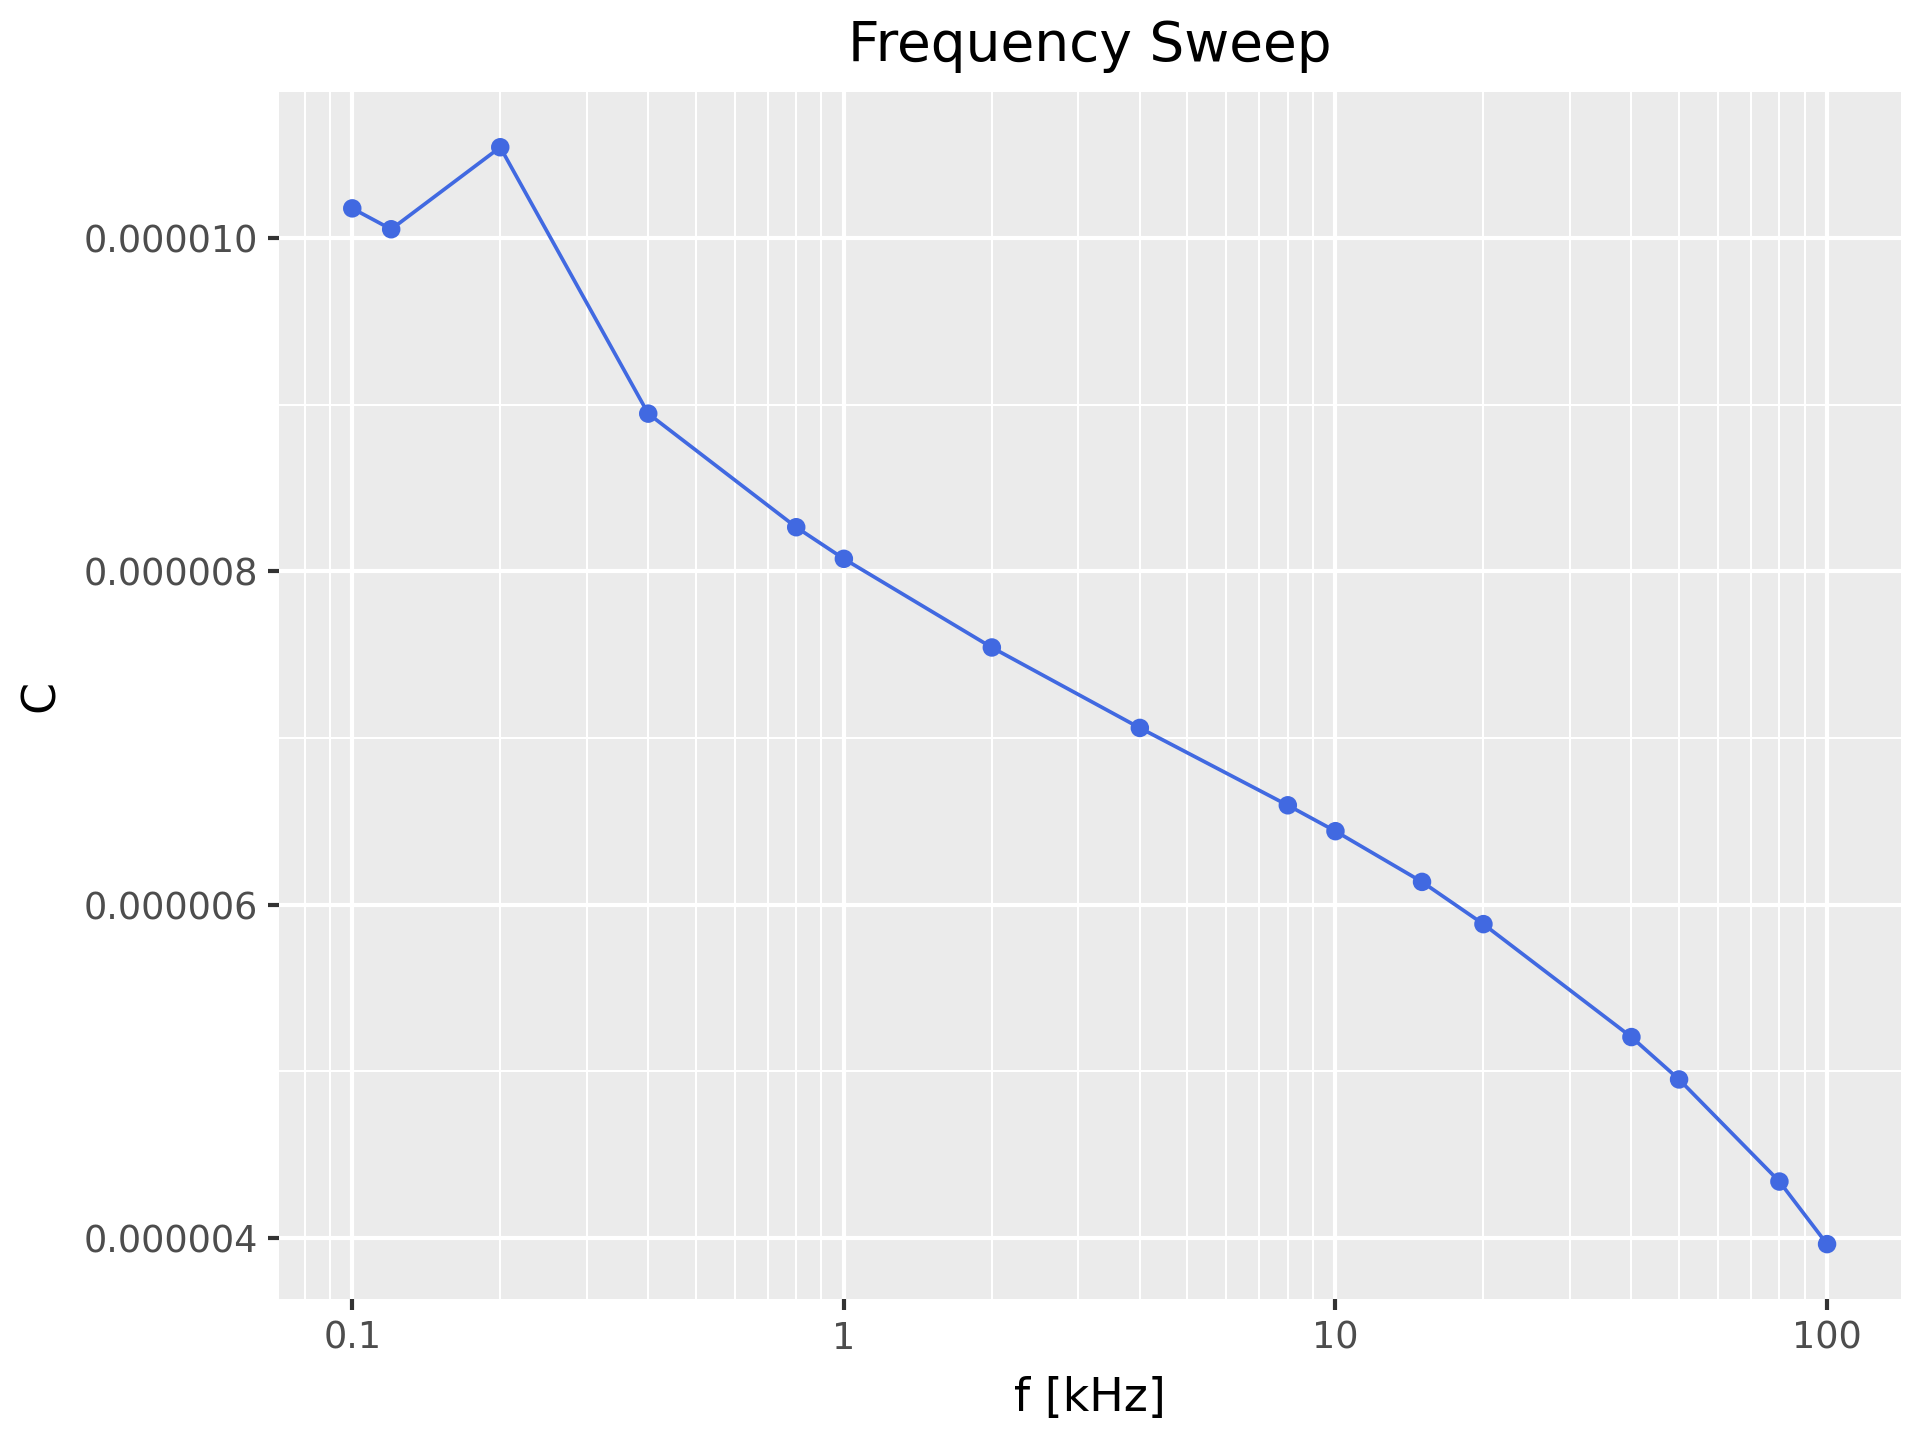
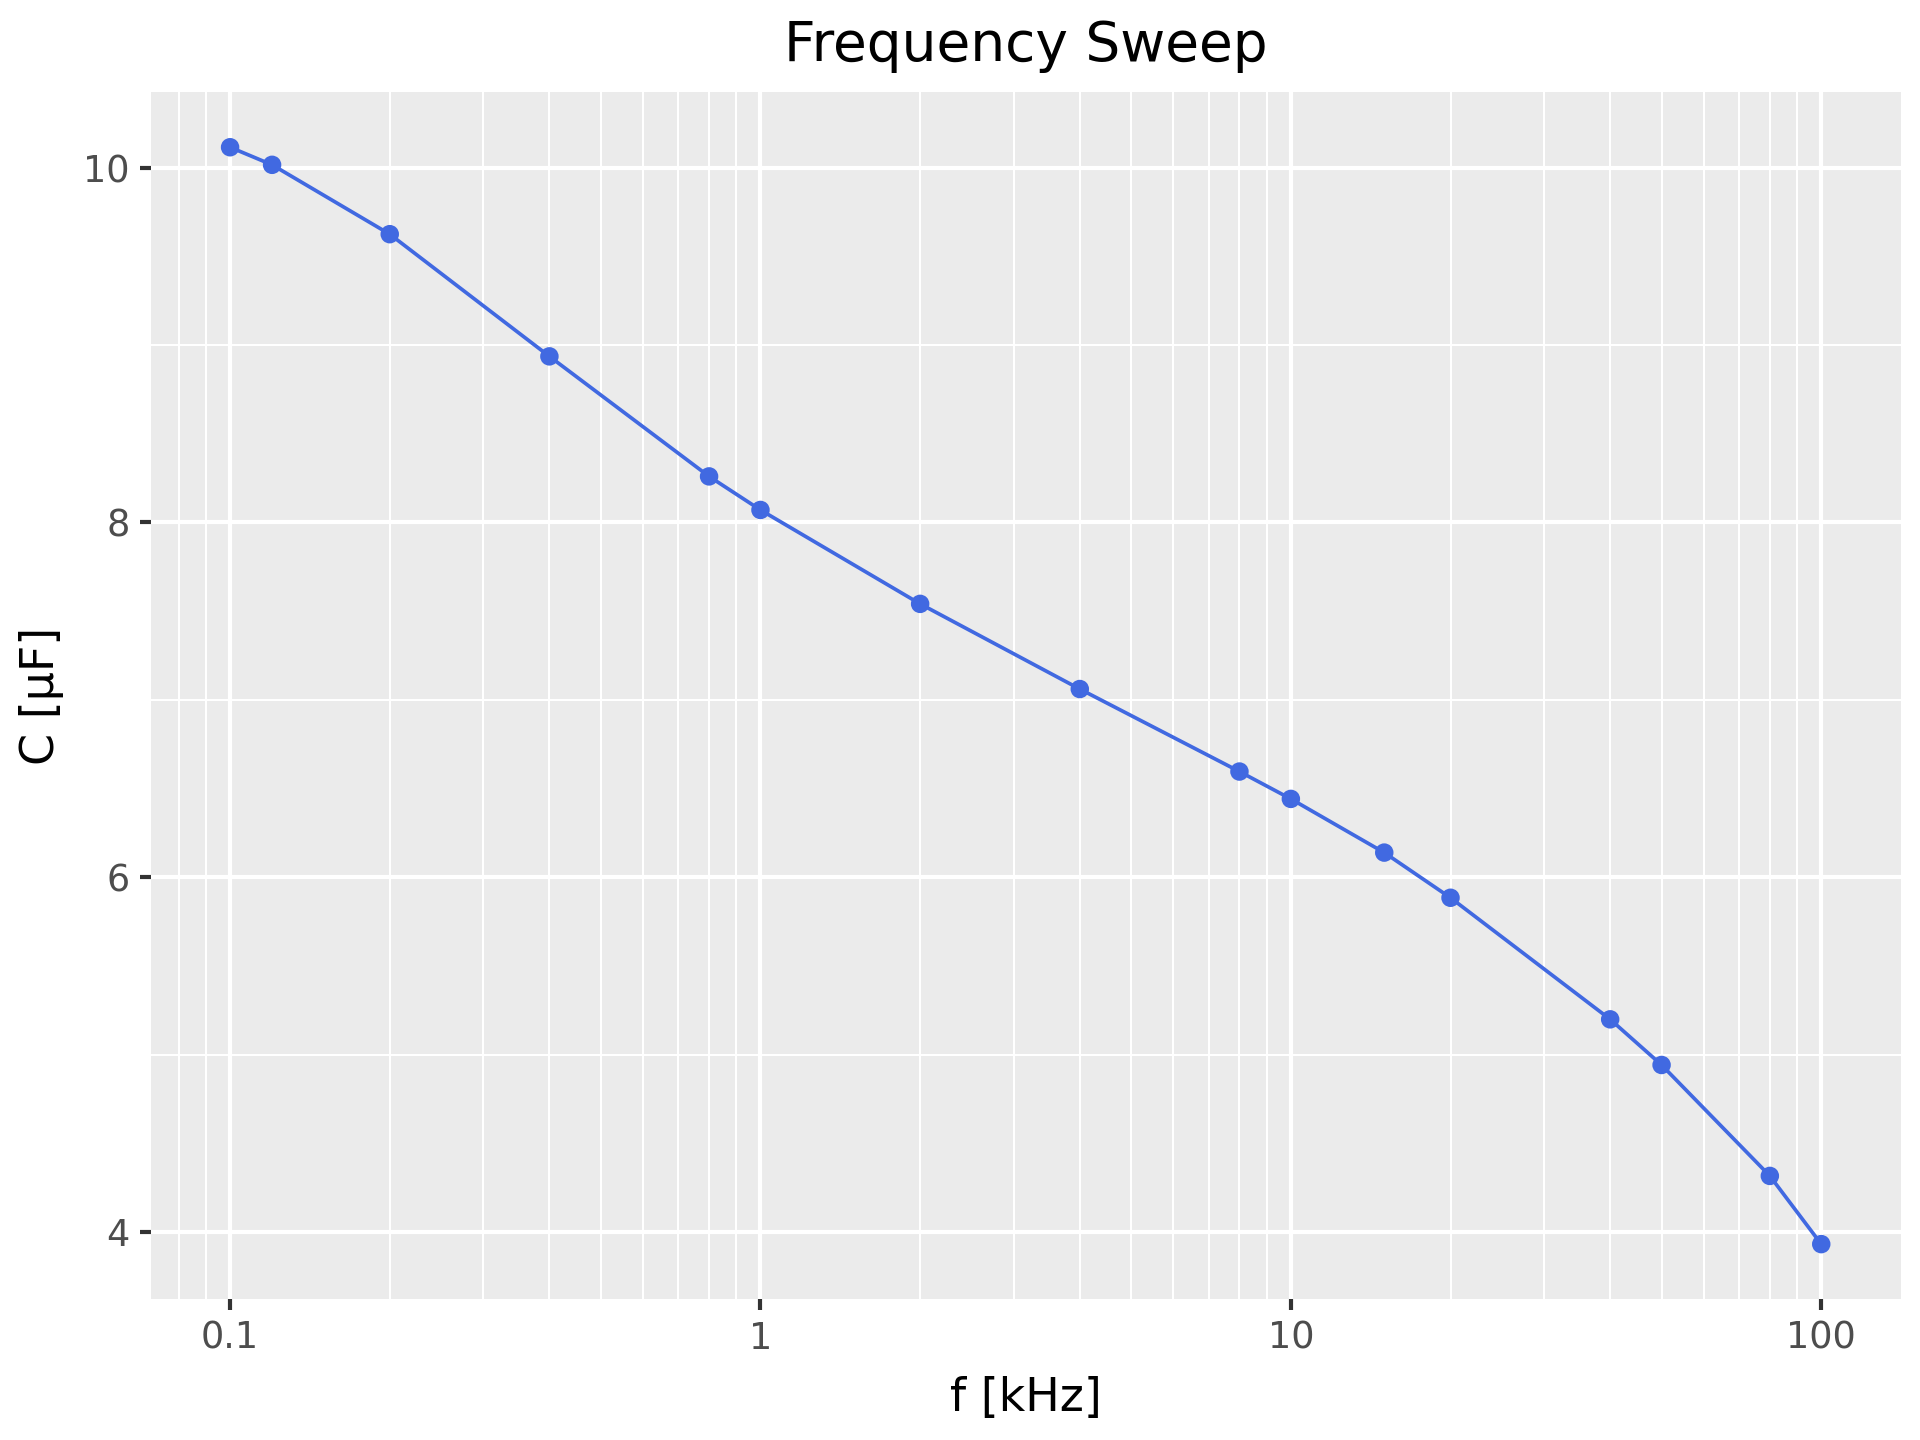
Add autoscaling

diff --git a/examples/sweep/sweep.py b/examples/sweep/sweep.py
@@ -5,7 +5,7 @@ Frequency sweep measurement
 Saves and plots all measurement data
 """
 
-import argparse, time
+import argparse, sys, time, math
 from decimal import Decimal
 from ET44 import ET44
 from plotnine import (
@@ -25,6 +25,7 @@ def main():
     dat = measure(args)
     dat = DataFrame(dat, columns=(["f", args.modeA] + args.modeB))
     dat.to_csv(f"{args.output}.csv", index=False)
+    print(dat)
     plot_all(dat, args)
 
 
@@ -61,6 +62,7 @@ def measure(args):
         freqrange = lcr.freqrange
 
     for freq in freqrange:
+        print(".", file=sys.stderr, end="", flush=True)
         lcr.freq = freq
         time.sleep(2)  # allow instrument to settle
         row = []
@@ -90,37 +92,30 @@ def plot_all(dat, args):
         "ESR": "Ω",
     }
 
-    num, prefix, multiplier = to_eng(max(dat[args.modeA]))
-    dat[args.modeA] *= multiplier
-    unit = units[args.modelA]
-    if unit:
-        unit = f"[{prefix}{unit}]"
-    freqplot(dat, args.modelA, unit)
-
-    for modeB in args.modeB:
-        num, prefix, multiplier = to_eng(max(dat[args.modeB]))
-        dat[args.modeB] *= multiplier
-        unit = units[args.modelB]
+    for mode in [args.modeA] + args.modeB:
+        num, prefix, multiplier = to_eng(max(dat[mode]))
+        dat[mode] *= multiplier
+        unit = units[mode]
         if unit:
             unit = f"[{prefix}{unit}]"
-        freqplot(dat, args.modelA, unit)
+        freqplot(dat, mode, unit, args)
 
 
-def freqplot(dat, yvar, unit):
+def freqplot(dat, yvar, unit, args):
     "Create one plot"
 
     plot = (
-        ggplot(dat, aes(x="f", y=f"{modeB}"))
+        ggplot(dat, aes(x="f", y=f"{yvar}"))
         + scale_x_log10()
         + geom_point(color="royalblue")
         + geom_line(color="royalblue")
         + labs(
             title="Frequency Sweep",
             x="f [kHz]",
-            y=f"{args.modeB} {unit}",
+            y=f"{yvar} {unit}",
         )
     )
-    plot.save(f"{args.output}_{modeB}.{args.format}", dpi=args.dpi)
+    plot.save(f"{args.output}_{yvar}.{args.format}", dpi=args.dpi)
 
 
 def to_eng(n):

diff --git a/examples/sweep/README.md b/examples/sweep/README.md
@@ -5,7 +5,7 @@ take the same measurement at different frequencies.
 
 The measurement results are saved in CSV format and as a plots.
 
-You need to specify one major mode (L, C or R). You can specify one ore more
+You need to specify one major mode (L, C, R or Z). You can specify one or more
 secondary modes (X, Q, D, Theta or ESR) if you like. All variables will be
 plotted against measurement frequency, individually.
 
